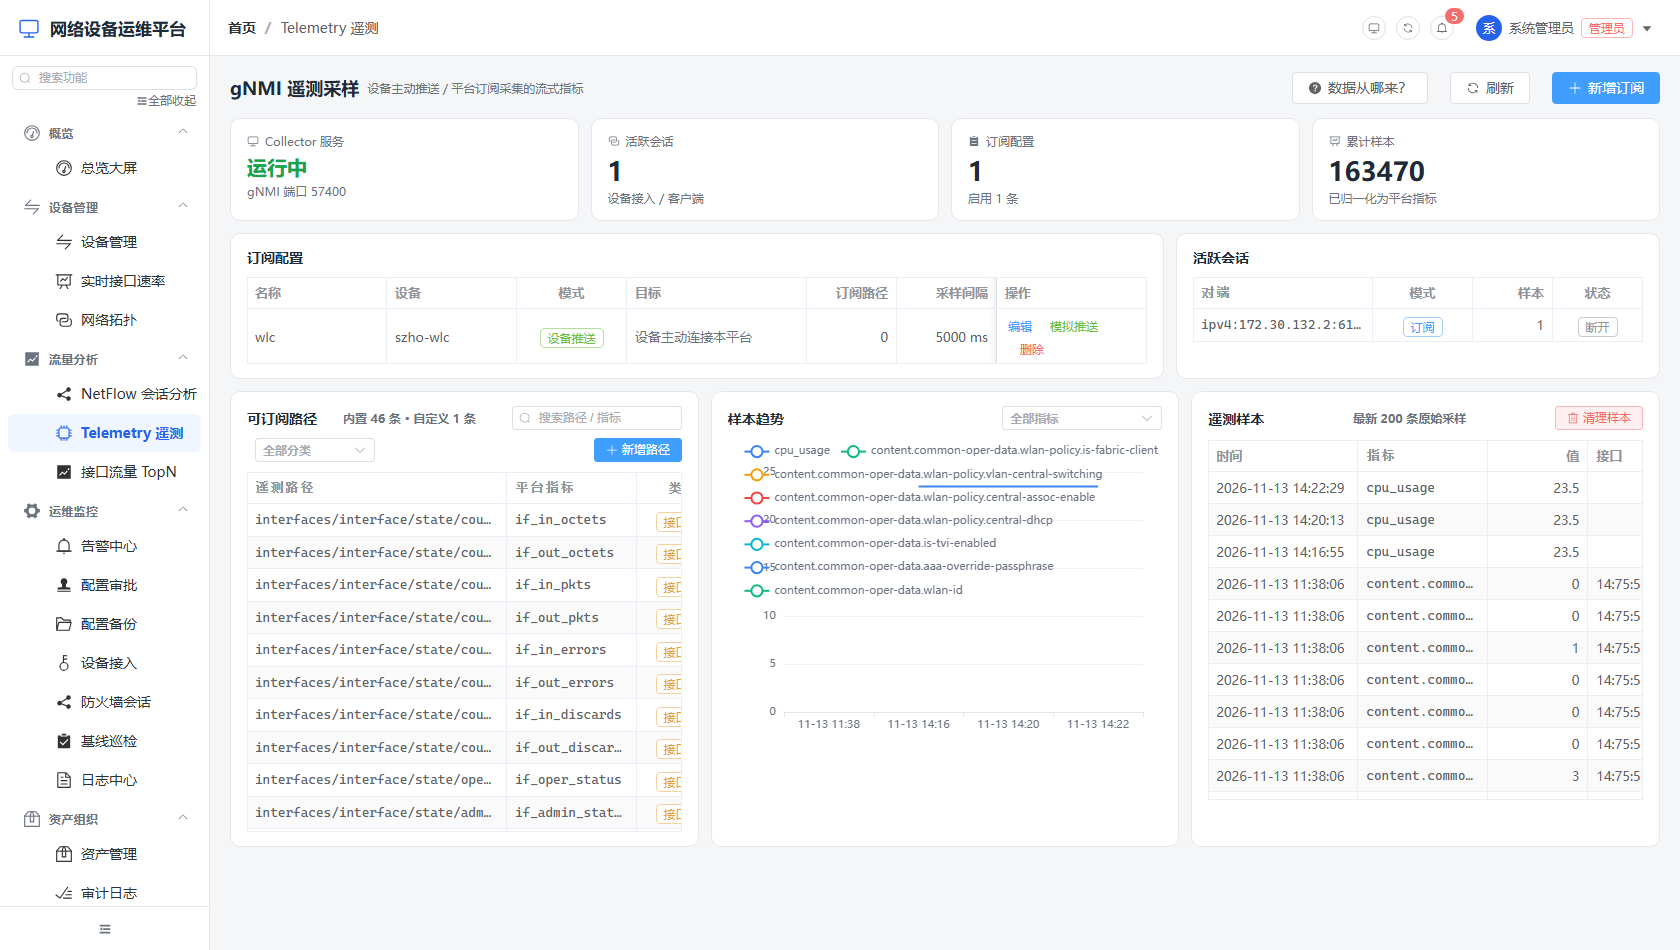
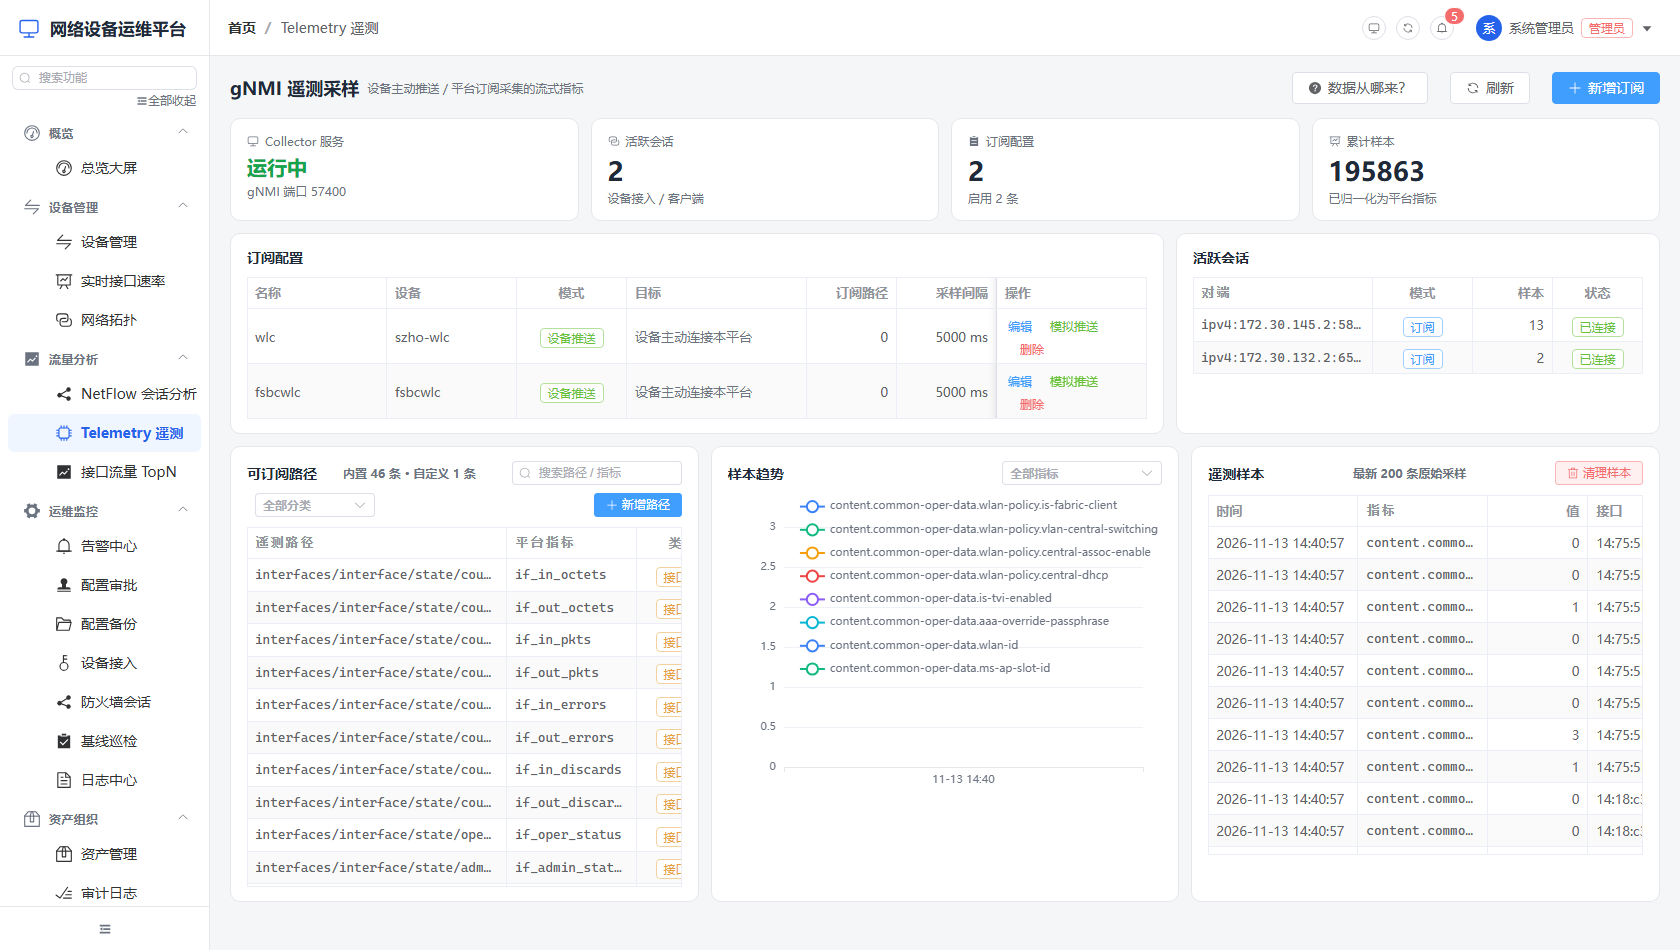
fix: fsbcwlc MDT 报错修复、设备管理四列、首末列宽锁定
1. 修复 fsbcwlc telemetry 推送无数据（关键 bug）
- 上轮改 session key 时删了 `ip` 变量定义，但后续
  device_resolver 还在引用 → 每条消息处理时 NameError，
  样本全部丢弃（设备一直活跃重连，日志刷 name 'ip' is not defined）
- 修复后实测：fsbcwlc（172.30.145.2）按 IP 正确解析到设备，
  推送正常入库——单批 1.32MB 客户端数据，验证期间 639 条样本

2. 修复 mac_counts 500（上轮替换的第三处误伤）
- interfaces/realtime 接口也有 utilization 字段被批量替换
  波及 → NameError 500；上次只修了 history 接口，realtime 漏了
- 修复后 UI 无 500 报错

3. 设备管理：位置 / 资产编号 / 序列号 / 设备类型 提升为主表格列
- 原先放在展开行里（低频字段），按需求直接显示四列；
  展开行保留不冲突

4. 表格列宽：中间列可拖，首列与末列固定
- 全局 CSS 隐藏首末列的拖拽手柄（caret-wrapper）——
  border 模式表头末尾有 gutter 占位，末列用 :nth-last-child(2)
  定位；一处 CSS 全部表格生效

回归：verify_gnmi_switch 16/16、verify_new_features 28/28，
UI 验证四列显示、无控制台 500

diff --git a/frontend/src/styles/main.css b/frontend/src/styles/main.css
@@ -217,3 +217,29 @@ body {
 ::-webkit-scrollbar-thumb:hover {
   background: #94a3b8;
 }
+
+/* ---------------------------------------------------------------- 表格列宽
+中间列可以拖拽调宽；首列与末列固定不动（隐藏拖拽手柄）。
+border 模式下 element-plus 会在表头列分界处渲染 caret-wrapper，
+把它藏掉该列就无法拖动。末列定位用 :nth-last-child(2)——
+border 模式表头行末尾还有一个 gutter 占位列。
+*/
+.el-table--border .el-table__header-wrapper th:first-child .caret-wrapper,
+.el-table--border .el-table__header-wrapper th:nth-last-child(2) .caret-wrapper,
+.el-table--border .el-table__fixed-header-wrapper th:first-child .caret-wrapper,
+.el-table--border .el-table__fixed-header-wrapper th:last-child .caret-wrapper {
+  display: none !important;
+}
+
+/* ---------------------------------------------------------------- 表格列宽
+中间列可以拖拽调宽；首列与末列固定不动（隐藏拖拽手柄）。
+border 模式下 element-plus 会在表头列分界处渲染 caret-wrapper，
+把它藏掉该列就无法拖动。末列定位用 :nth-last-child(2)——
+border 模式表头行末尾还有一个 gutter 占位列。
+*/
+.el-table--border .el-table__header-wrapper th:first-child .caret-wrapper,
+.el-table--border .el-table__header-wrapper th:nth-last-child(2) .caret-wrapper,
+.el-table--border .el-table__fixed-header-wrapper th:first-child .caret-wrapper,
+.el-table--border .el-table__fixed-header-wrapper th:last-child .caret-wrapper {
+  display: none !important;
+}

diff --git a/frontend/src/views/DevicesView.vue b/frontend/src/views/DevicesView.vue
@@ -95,6 +95,12 @@
         </el-table-column>
         <el-table-column prop="model" label="型号" width="130" show-overflow-tooltip />
         <el-table-column prop="store_name" label="门店" width="110" show-overflow-tooltip />
+        <el-table-column prop="location" label="位置" min-width="110" show-overflow-tooltip />
+        <el-table-column prop="asset_tag" label="资产编号" min-width="110" class-name="mono" show-overflow-tooltip />
+        <el-table-column prop="serial_number" label="序列号" min-width="130" class-name="mono" show-overflow-tooltip />
+        <el-table-column label="设备类型" width="100" show-overflow-tooltip>
+          <template #default="{ row }">{{ deviceTypeText(row.device_type) }}</template>
+        </el-table-column>
         <el-table-column label="采集通道" width="140">
           <template #default="{ row }">
             <el-tag v-if="row.use_snmp" size="small" effect="plain" style="margin: 1px">SNMP</el-tag>

diff --git a/backend/app/collectors/mdt.py b/backend/app/collectors/mdt.py
@@ -184,6 +184,8 @@ class MdtDialoutServicer(mdt_pb2_grpc.gRPCMdtDialoutServicer):
         # 用完整 peer（含源端口）做 key：同一设备的多条订阅 RPC
         # （每订阅一条流）用 IP 做主键会互相覆盖
         self.sessions[peer or "unknown"] = session
+        # peer 形如 "ipv4:172.30.132.2:60389"——解析出 IP 供设备匹配
+        ip = peer.split(":")[1] if ":" in peer else peer
         # 清理已断开超过 10 分钟的旧会话记录
         now = datetime.now()
         stale = [

diff --git a/backend/app/api/monitor.py b/backend/app/api/monitor.py
@@ -253,7 +253,6 @@ def interfaces_realtime(
             "in_errors": r.in_errors,
             "out_errors": r.out_errors,
             "utilization": r.utilization,
-            "mac_count": mac_counts.get(r.if_index, 0),
             "ts": r.ts.isoformat(),
         })
 
